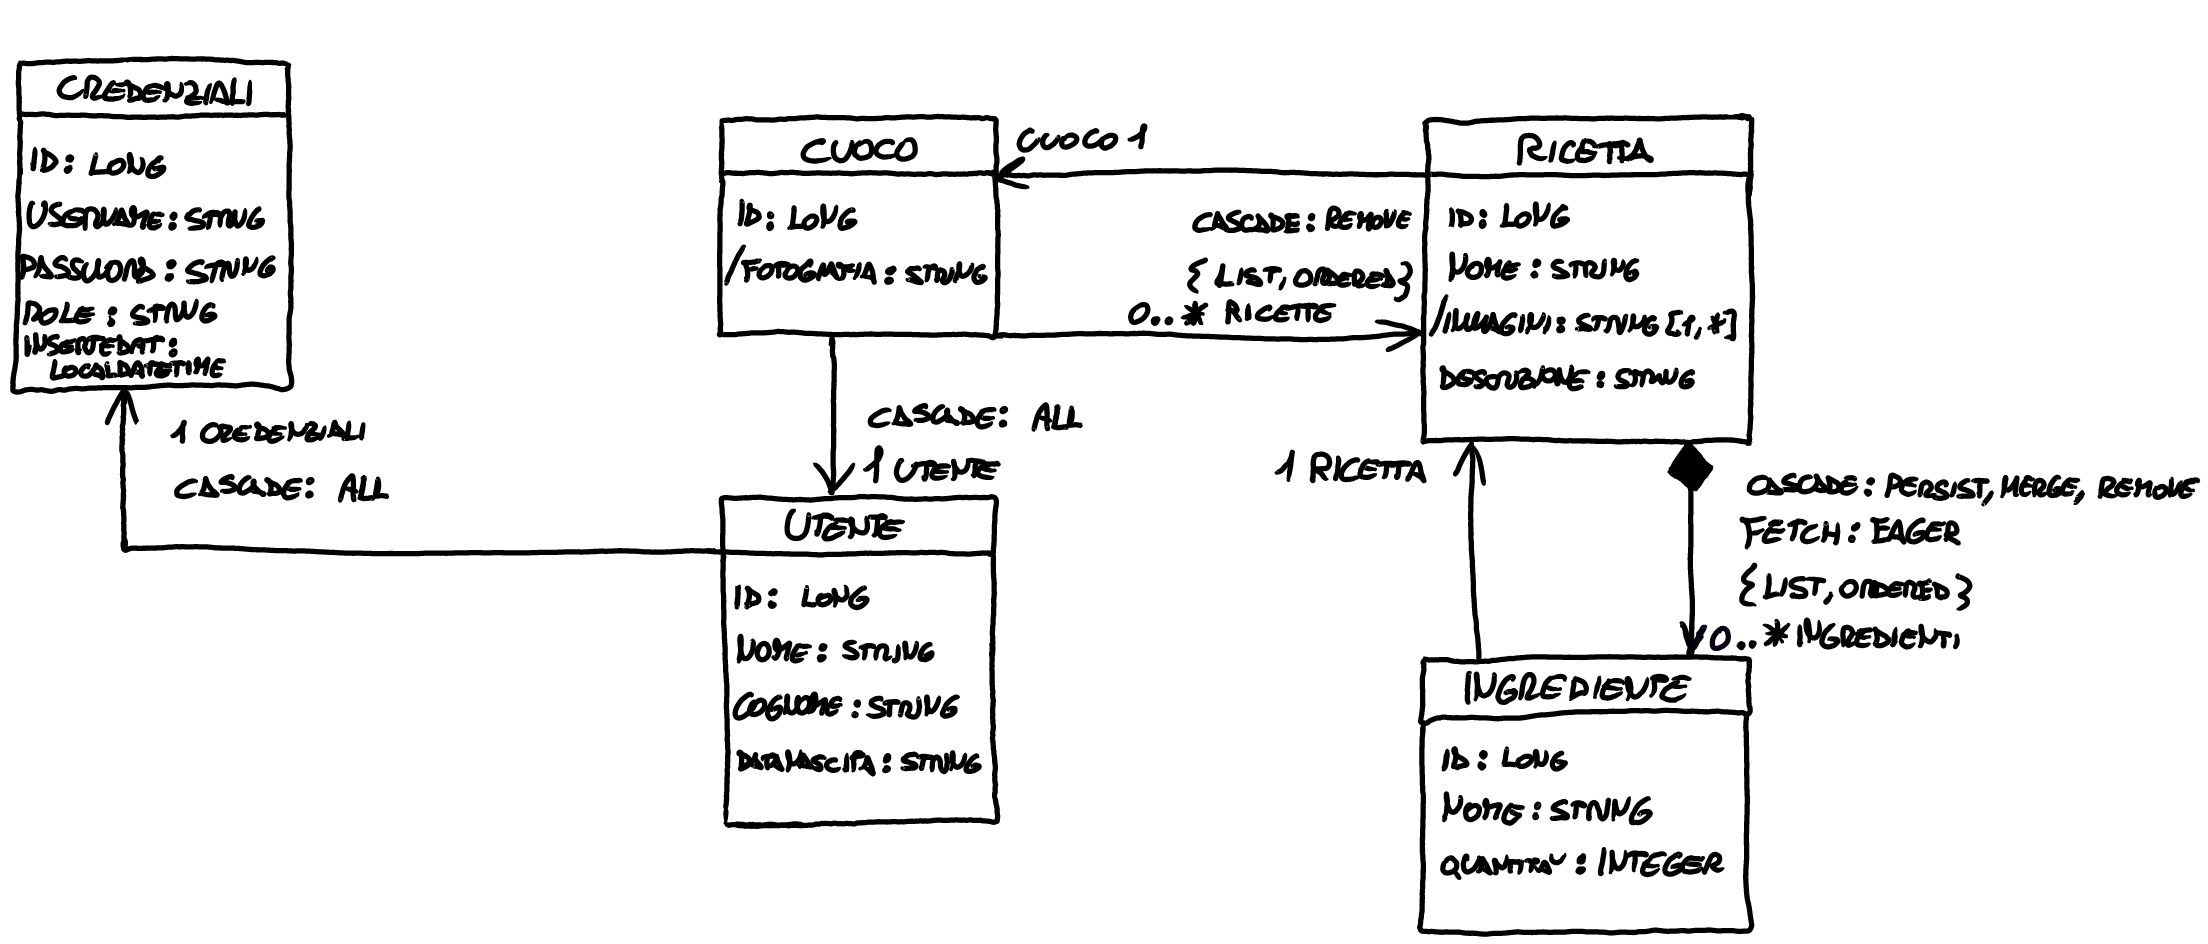
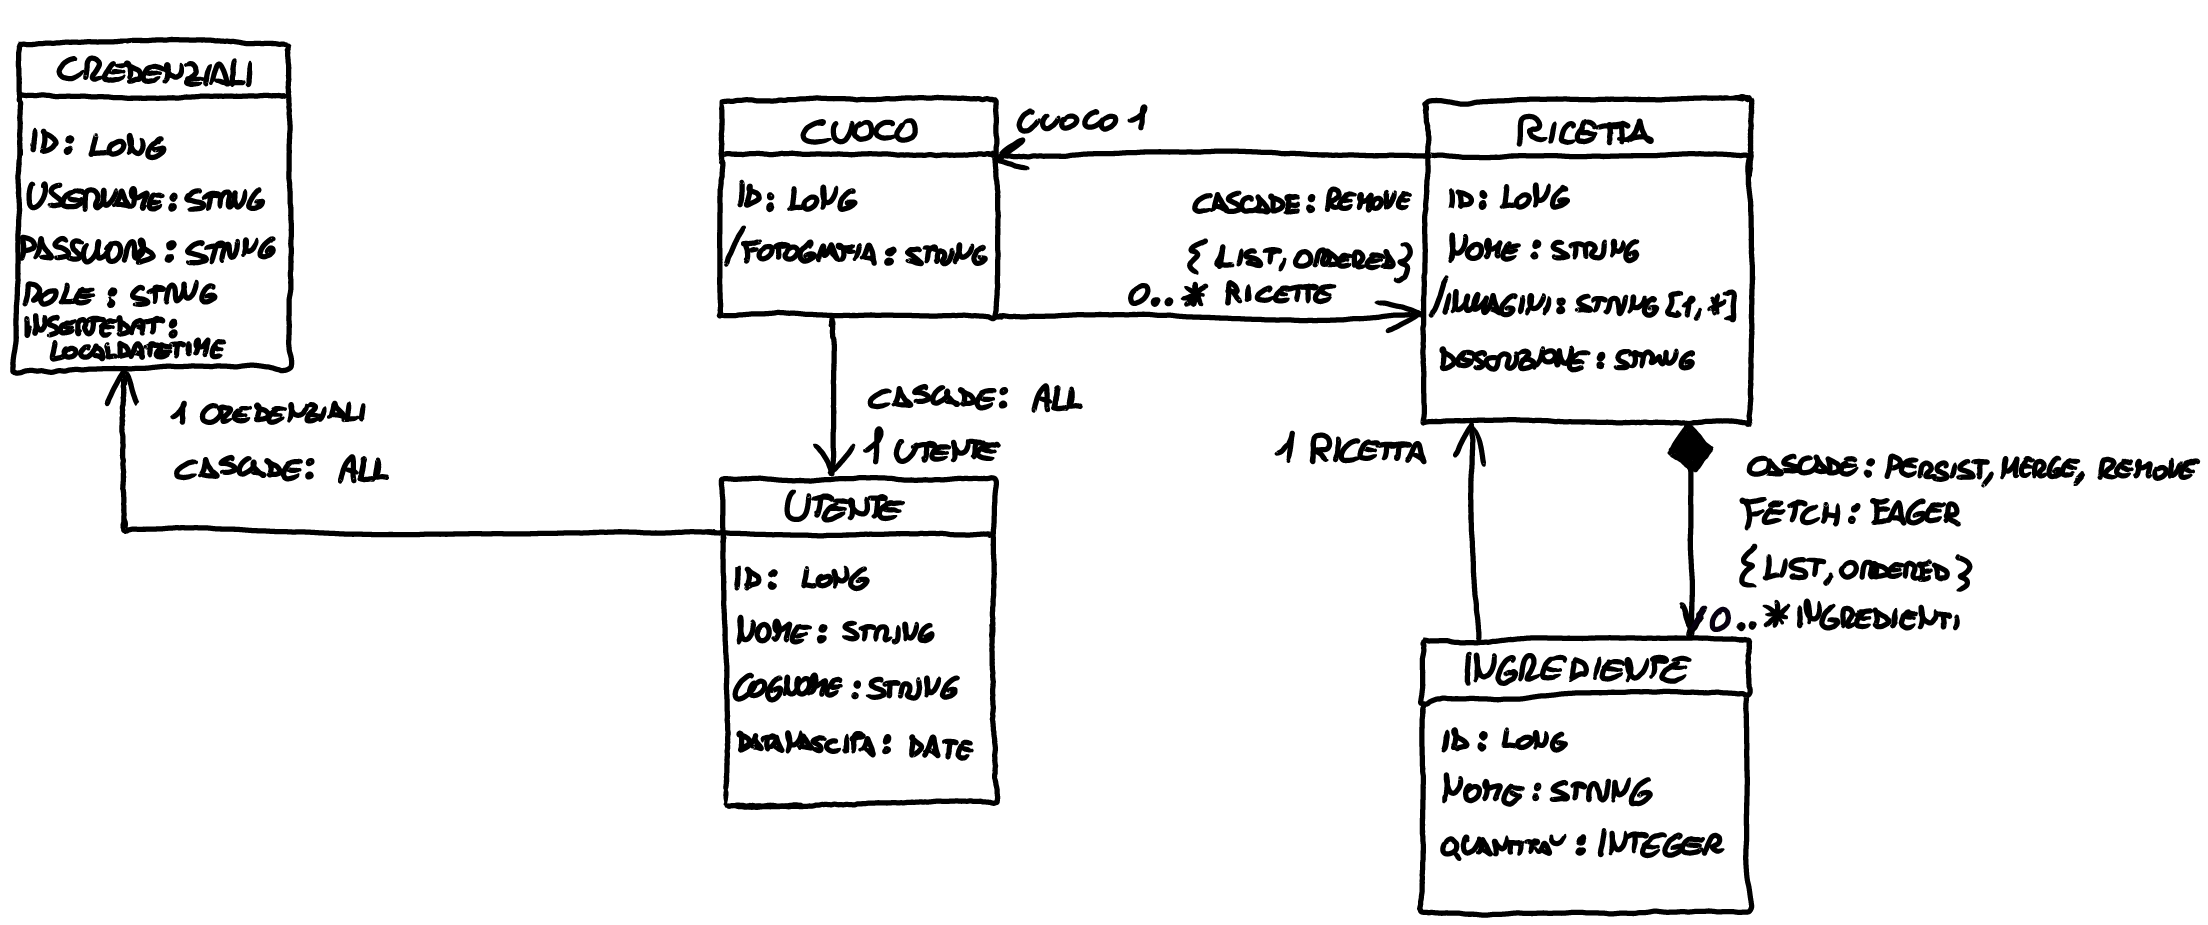
Cascade test aggiunti

diff --git a/src/test/java/com/siw/siwfood/service/RicettaServiceTests.java b/src/test/java/com/siw/siwfood/service/RicettaServiceTests.java
@@ -1,0 +1,150 @@
+package com.siw.siwfood.service;
+
+import com.siw.siwfood.model.*;
+import com.siw.siwfood.repository.*;
+import org.junit.After;
+import org.junit.jupiter.api.BeforeEach;
+import org.junit.jupiter.api.Test;
+import org.junit.runner.RunWith;
+import org.springframework.beans.factory.annotation.Autowired;
+import org.springframework.boot.test.context.SpringBootTest;
+import org.springframework.test.context.junit4.SpringRunner;
+import org.springframework.transaction.annotation.Transactional;
+
+import java.time.LocalDate;
+import java.util.Arrays;
+import java.util.Date;
+
+import static org.junit.Assert.*;
+import static org.junit.Assert.assertNotNull;
+
+@RunWith(SpringRunner.class)
+@SpringBootTest
+class RicettaServiceTests {
+   
+   @Autowired
+   private RicettaService ricettaService;
+
+   @Autowired
+   private CuocoRepository cuocoRepository;
+
+   @Autowired
+   private UtenteRepository utenteRepository;
+
+   @Autowired
+   private CredenzialiRepository credenzialiRepository;
+
+   private Cuoco cuoco;
+
+   @BeforeEach
+   public void setUp() {
+      Credenziali credenziali = new Credenziali("USERNAME", "PASSWORD");
+      this.credenzialiRepository.save(credenziali);
+      Utente utente = new Utente("Matteo", "Lambertucci", new Date(), credenziali);
+      this.utenteRepository.save(utente);
+      this.cuoco = new Cuoco(utente);
+      this.cuocoRepository.save(cuoco);
+   }
+
+   @After
+   public void tearDown() {
+
+   }
+
+   @Test
+   @Transactional
+   public void testCascadePersist() {
+      Ricetta ricetta = new Ricetta(cuoco);
+      ricetta.setNome("Pasta");
+      ricetta.setDescrizione("Delicious pasta.");
+
+      Ingrediente ingrediente1 = new Ingrediente(ricetta);
+      ingrediente1.setNome("Pomodoro");
+      ingrediente1.setQuantita(2);
+
+      Ingrediente ingrediente2 = new Ingrediente(ricetta);
+      ingrediente2.setNome("Basilico");
+      ingrediente2.setQuantita(1);
+
+      ricetta.setIngredienti(Arrays.asList(ingrediente1, ingrediente2));
+
+      Ricetta savedRicetta = ricettaService.saveRicetta(ricetta, 0);
+      assertNotNull(savedRicetta);
+      assertNotNull(savedRicetta.getId());
+      assertNotNull(ingrediente1.getId());
+      assertNotNull(ingrediente2.getId());
+
+      assertTrue(this.ricettaService.existsIngredienteById(ingrediente1.getId()));
+      assertTrue(this.ricettaService.existsIngredienteById(ingrediente2.getId()));
+      assertTrue(this.ricettaService.existsRicettaById(savedRicetta.getId()));
+   }
+
+   @Test
+   @Transactional
+   public void testCascadeMerge() {
+      Ricetta ricetta = new Ricetta(cuoco);
+      ricetta.setNome("Pasta");
+      ricetta.setDescrizione("Delicious pasta.");
+
+      Ingrediente ingrediente1 = new Ingrediente(ricetta);
+      ingrediente1.setNome("Pomodoro");
+      ingrediente1.setQuantita(2);
+
+      Ingrediente ingrediente2 = new Ingrediente(ricetta);
+      ingrediente2.setNome("Basilico");
+      ingrediente2.setQuantita(1);
+
+      ricetta.setIngredienti(Arrays.asList(ingrediente1, ingrediente2));
+
+      Ricetta savedRicetta = ricettaService.saveRicetta(ricetta, 0);
+      assertNotNull(savedRicetta);
+      assertNotNull(savedRicetta.getId());
+      assertNotNull(ingrediente1.getId());
+      assertNotNull(ingrediente2.getId());
+      Ricetta nuovaRicetta = new Ricetta();
+      nuovaRicetta.setNome("Nuova pasta");
+      nuovaRicetta.setDescrizione("Nuova delicious pasta.");
+      nuovaRicetta.setCuoco(this.cuoco);
+      Ricetta updatedRicetta = ricettaService.updateRicetta(ricetta, nuovaRicetta, 0);
+      assertNotNull(updatedRicetta);
+      assertNotNull(updatedRicetta.getId());
+      assertNotNull(ingrediente1.getId());
+      assertNotNull(ingrediente2.getId());
+
+      assertTrue(this.ricettaService.existsIngredienteById(ingrediente1.getId()));
+      assertTrue(this.ricettaService.existsIngredienteById(ingrediente2.getId()));
+      assertTrue(this.ricettaService.existsRicettaById(updatedRicetta.getId()));
+   }
+
+   @Test
+   @Transactional
+   public void testCascadeDelete() {
+      Ricetta ricetta = new Ricetta(cuoco);
+      ricetta.setNome("Pasta");
+      ricetta.setDescrizione("Delicious pasta");
+
+      Ingrediente ingrediente1 = new Ingrediente(ricetta);
+      ingrediente1.setNome("Pomodoro");
+      ingrediente1.setQuantita(2);
+
+      Ingrediente ingrediente2 = new Ingrediente(ricetta);
+      ingrediente2.setNome("Basilico");
+      ingrediente2.setQuantita(1);
+
+      ricetta.setIngredienti(Arrays.asList(ingrediente1, ingrediente2));
+
+      Ricetta savedRicetta = ricettaService.saveRicetta(ricetta, 0);
+
+      assertNotNull(savedRicetta);
+
+      assertNotNull(savedRicetta.getId());
+      assertNotNull(ingrediente1.getId());
+      assertNotNull(ingrediente2.getId());
+
+      ricettaService.deleteRicetta(savedRicetta);
+
+      assertFalse(this.ricettaService.existsIngredienteById(ingrediente1.getId()));
+      assertFalse(this.ricettaService.existsIngredienteById(ingrediente2.getId()));
+      assertFalse(this.ricettaService.existsRicettaById(savedRicetta.getId()));
+   }
+}

diff --git a/src/main/java/com/siw/siwfood/service/RicettaService.java b/src/main/java/com/siw/siwfood/service/RicettaService.java
@@ -12,6 +12,7 @@ import org.springframework.beans.factory.annotation.Autowired;
 import org.springframework.stereotype.Service;
 import org.springframework.transaction.annotation.Transactional;
 
+import java.util.ArrayList;
 import java.util.List;
 
 
@@ -37,8 +38,10 @@ public class RicettaService {
    }
 
    @Transactional
-   public void deleteRicetta(Ricetta ricetta) {
-      RicettaImmaginiFileUtils.deleteRicettaImmagini(ricetta);
+   public void deleteRicetta(@NotNull Ricetta ricetta) {
+      if(!ricetta.getImmagini().isEmpty()) {
+         RicettaImmaginiFileUtils.deleteRicettaImmagini(ricetta);
+      }
       this.ricettaRepository.delete(ricetta);
    }
 
@@ -92,6 +95,7 @@ public class RicettaService {
             immaginiRicetta.add(RicettaImmaginiFileUtils.getRicettaImmagineRelativePath(ricettaToUpdate, i));
          }
       }
+      ricettaToUpdate.setIngredienti(ricetta.getIngredienti());
       return this.ricettaRepository.save(ricettaToUpdate);
    }
 
@@ -102,5 +106,13 @@ public class RicettaService {
          ingredienteToUpdate.setQuantita(ingrediente.getQuantita());
          this.ingredientRepository.save(ingredienteToUpdate);
       }
+   }
+
+   public Boolean existsIngredienteById(Long ingredienteId) {
+      return this.ingredientRepository.existsById(ingredienteId);
+   }
+
+   public Boolean existsRicettaById(Long ricettaId) {
+      return this.ricettaRepository.existsById(ricettaId);
    }
 }

diff --git a/src/main/java/com/siw/siwfood/controller/RicettaController.java b/src/main/java/com/siw/siwfood/controller/RicettaController.java
@@ -176,6 +176,7 @@ public class RicettaController {
       this.ricettaValidator.validate(ricetta, ricettaBindingResult);
       if (!ricettaBindingResult.hasErrors()) {
          Ricetta ricettaToUpdate = this.ricettaService.getRicetta(ricettaId);
+         ricetta.setIngredienti(ricettaToUpdate.getIngredienti());
          MultipartFile[] notEmptyImmaginiRicetta = Arrays.stream(immaginiRicetta).filter(immagineRicetta -> !immagineRicetta.isEmpty()).toArray(MultipartFile[]::new);
          final Integer numeroNotEmptyImmaginiRicetta = notEmptyImmaginiRicetta.length;
          Ricetta updatedRicetta = this.ricettaService.updateRicetta(ricettaToUpdate, ricetta, numeroNotEmptyImmaginiRicetta);

diff --git a/src/main/java/com/siw/siwfood/model/Utente.java b/src/main/java/com/siw/siwfood/model/Utente.java
@@ -8,6 +8,7 @@ import jakarta.validation.constraints.*;
 import jdk.jfr.Unsigned;
 import org.springframework.format.annotation.DateTimeFormat;
 
+import java.time.LocalDate;
 import java.util.Date;
 import java.util.Objects;
 
@@ -45,6 +46,13 @@ public class Utente {
 
    public Utente() {
 
+   }
+
+   public Utente(String nome, String cognome, Date dataNascita, Credenziali credenziali) {
+      this.nome = nome;
+      this.cognome = cognome;
+      this.dataNascita = dataNascita;
+      this.credenziali = credenziali;
    }
 
    public Utente(Credenziali credenziali) {

diff --git a/README.md b/README.md
@@ -29,7 +29,7 @@
 
 - **Visualizzazione di guide tramite tooltips:** Sono presenti molti tooltips che guidano l'utente nel sito.
 
-- **Lingua:** È disponibile la lingua italiana al momento con internalizzazione.
+- **Lingua:** È disponibile la lingua italiana al momento con un pò di internazionalizzazione.
 
 ## Screenshots 📸
 
